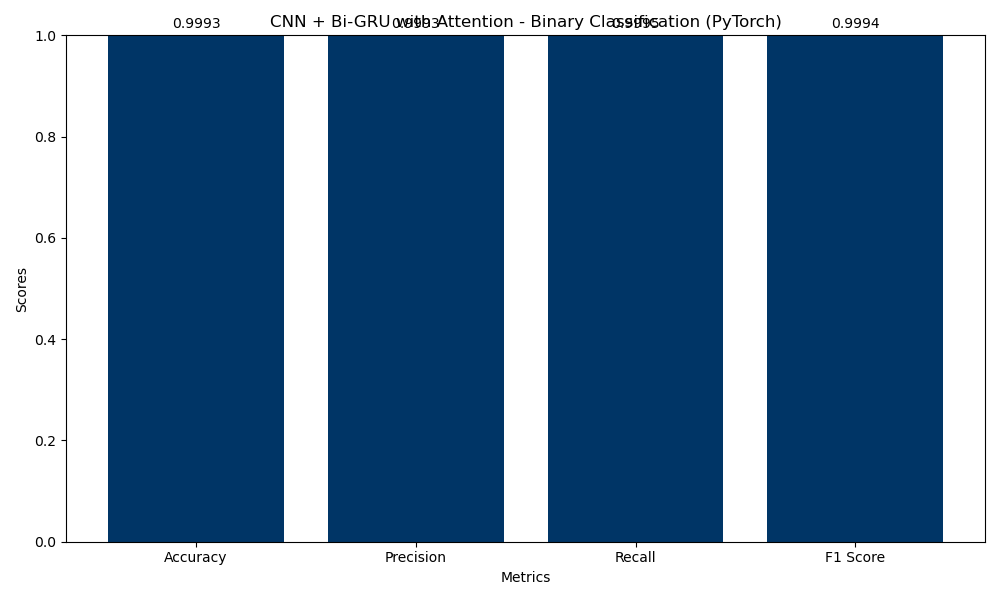
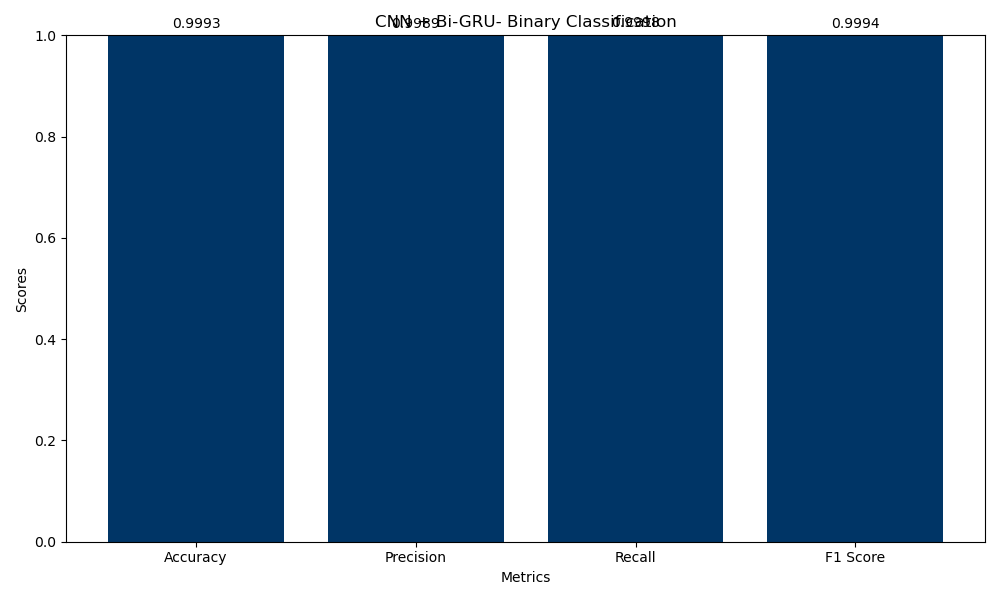
changes

Changed region(s): [[0.279, 0.0, 0.775, 0.06]]

diff --git a/centralized models/cnn_bigru/cnnbigru_multiclass.py b/centralized models/cnn_bigru/cnnbigru_multiclass.py
@@ -346,7 +346,7 @@ def plot_metrics(metrics):
 
     plt.xlabel('Metrics')
     plt.ylabel('Scores')
-    plt.title('CNN + Bi-GRU with Attention - Multiclass Classification (PyTorch)')
+    plt.title('CNN + Bi-GRU- Multiclass Classification')
     plt.ylim(0, 1.0)
 
     # Add values on top of bars

diff --git a/centralized models/cnn_bigru/cnnbigru_binary.py b/centralized models/cnn_bigru/cnnbigru_binary.py
@@ -344,7 +344,7 @@ def plot_metrics(metrics):
 
     plt.xlabel('Metrics')
     plt.ylabel('Scores')
-    plt.title('CNN + Bi-GRU with Attention - Binary Classification (PyTorch)')
+    plt.title('CNN + Bi-GRU- Binary Classification')
     plt.ylim(0, 1.0)
 
     # Add values on top of bars
